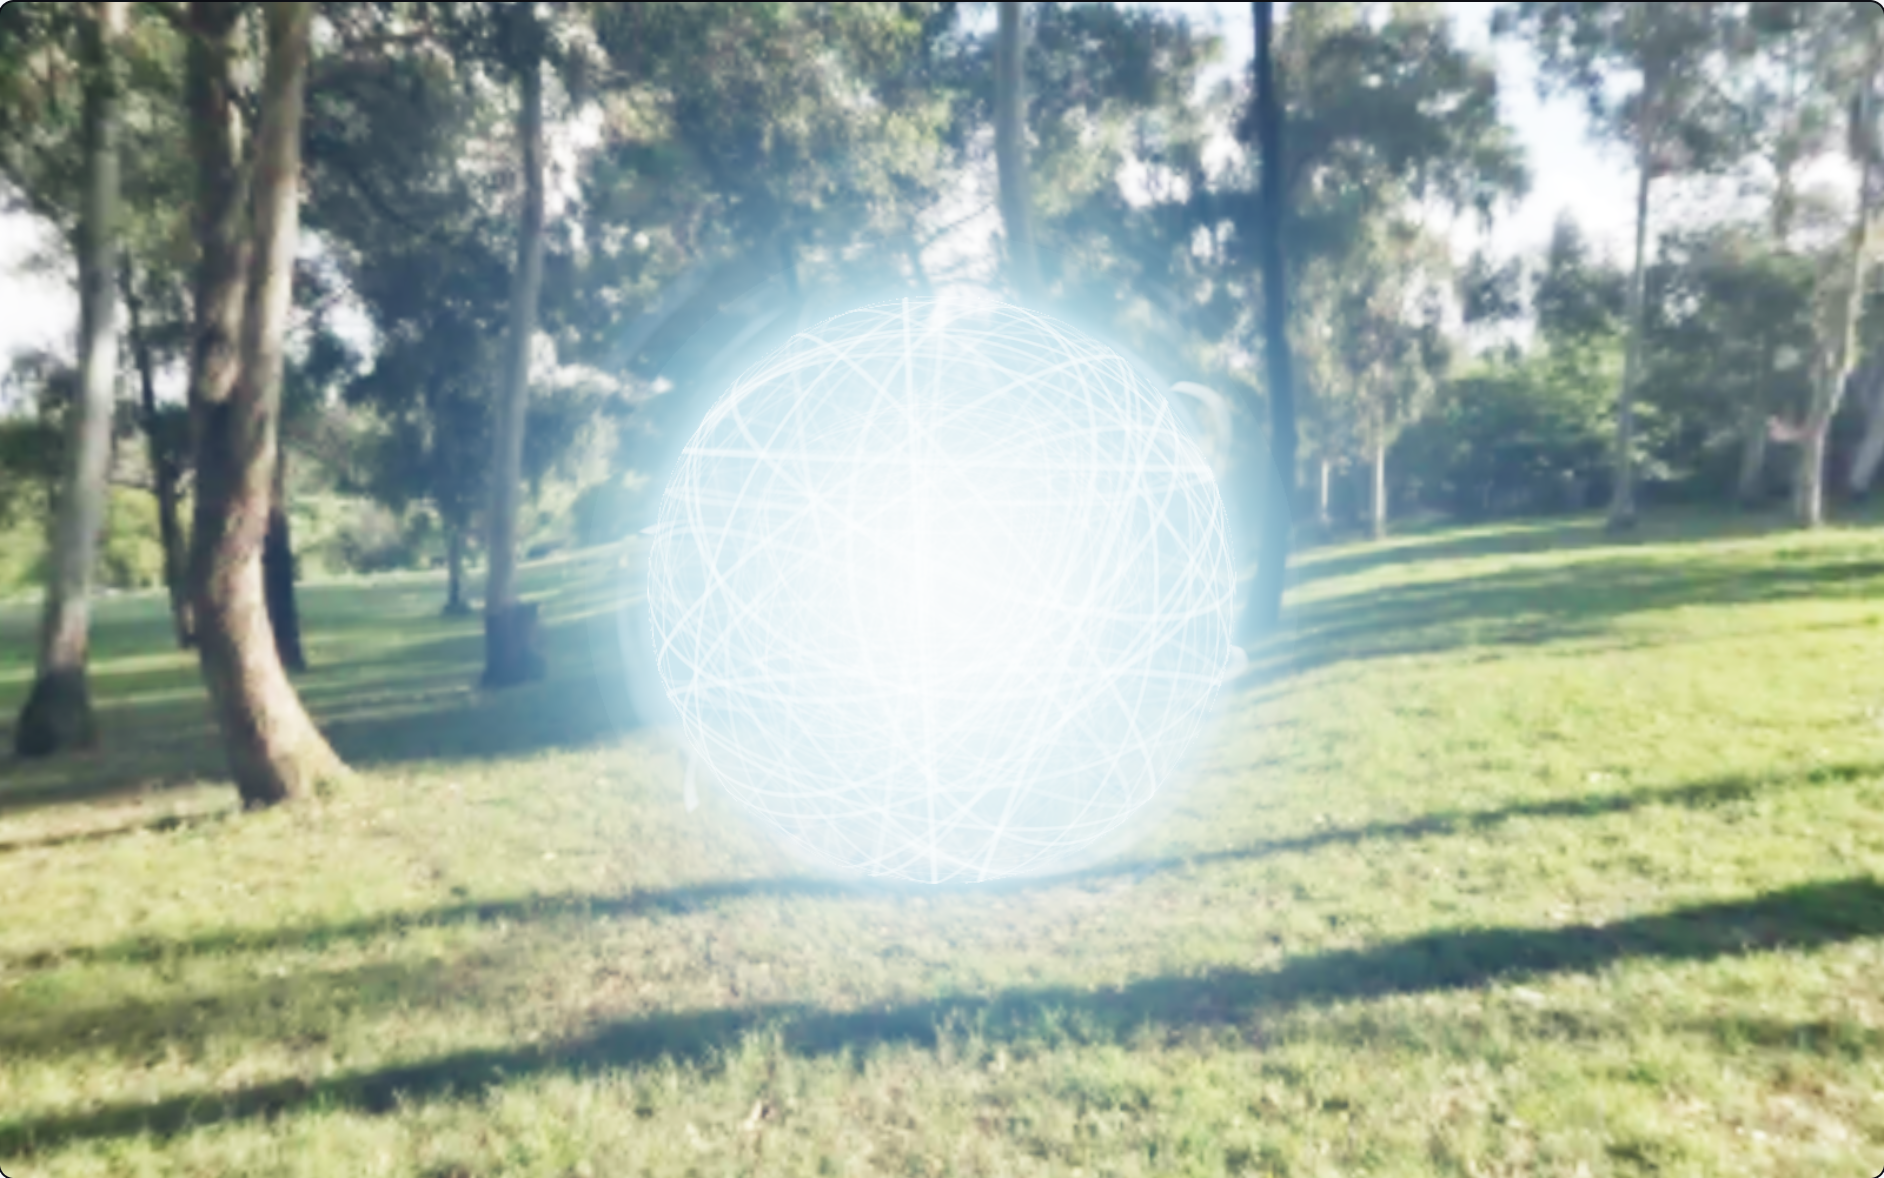
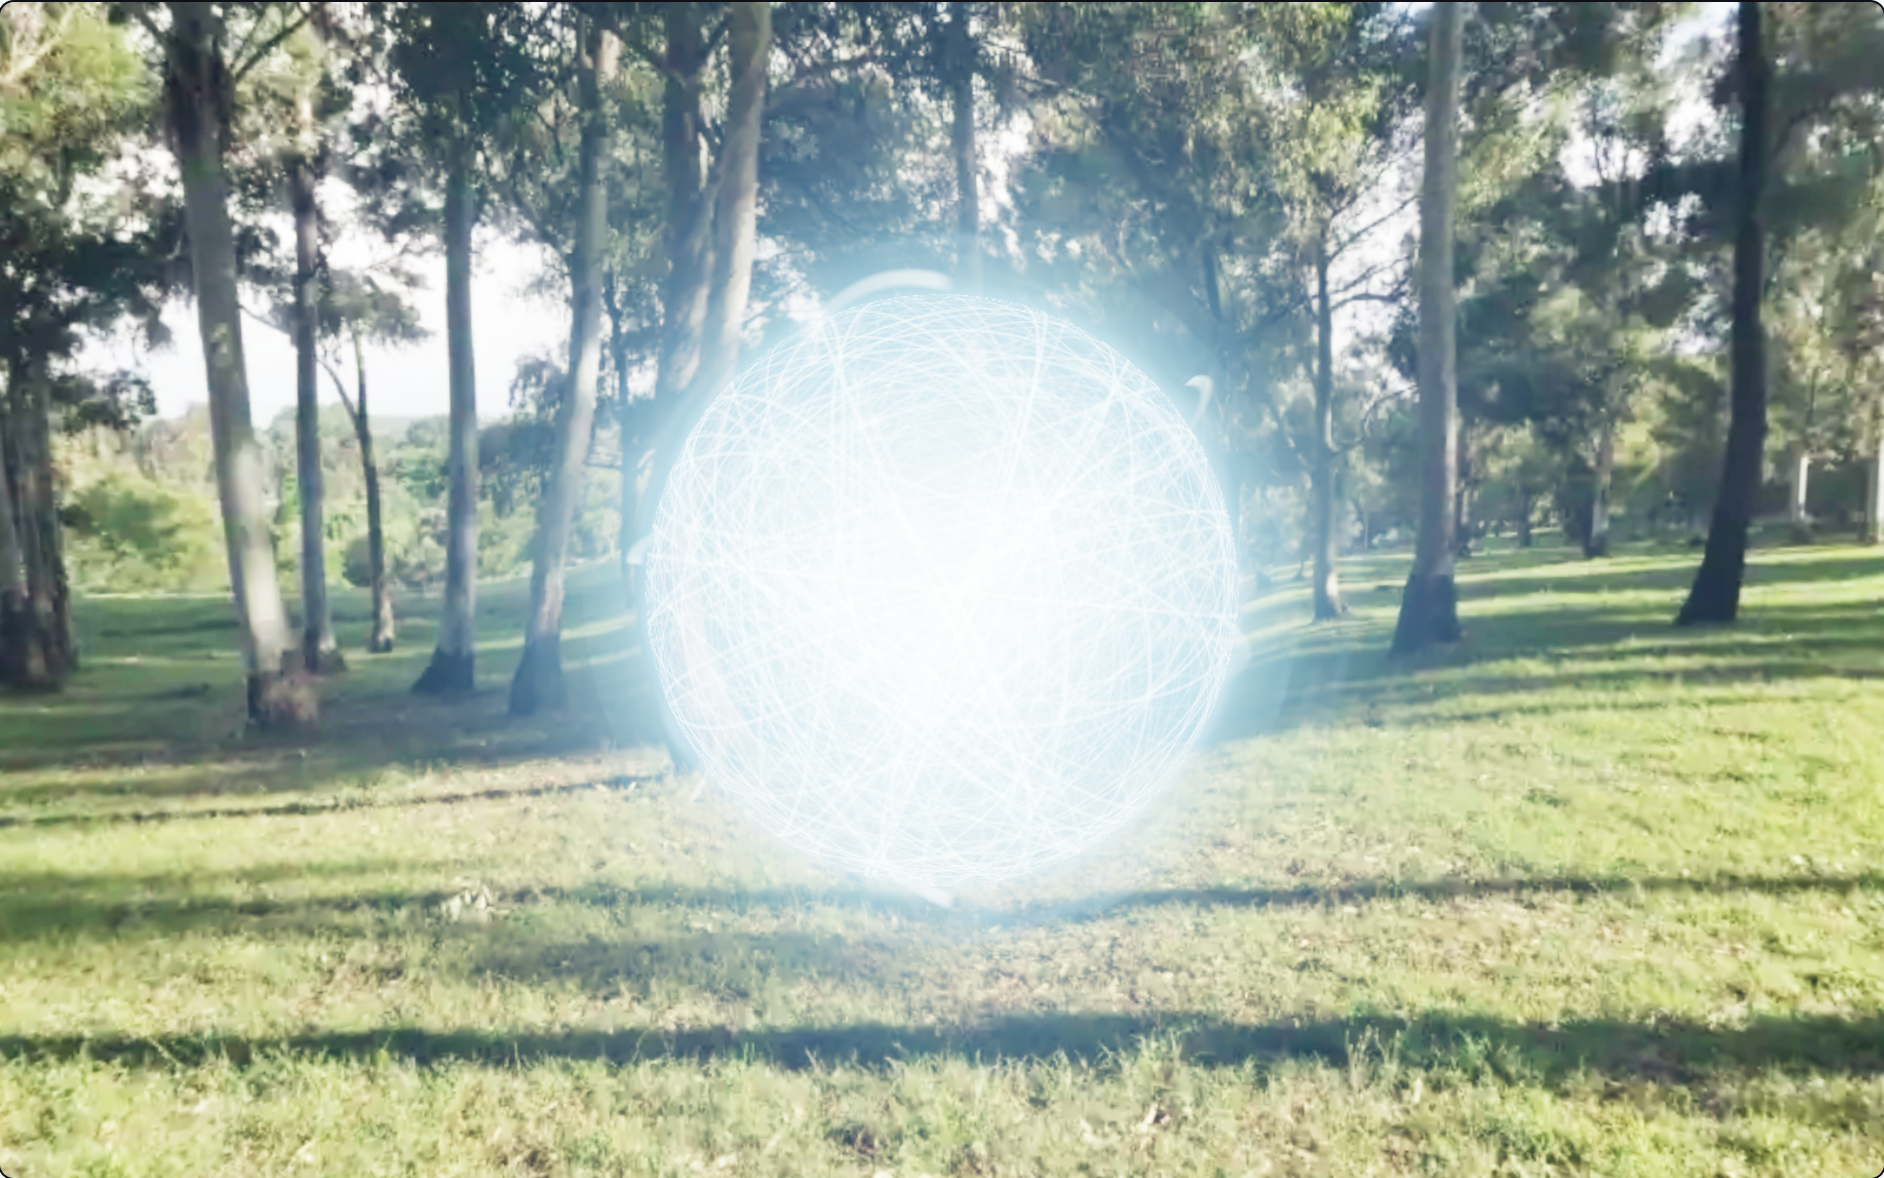
feat(lab): denser Rasengan cage, sharper background
144 circles in four groups on four shells, half the width, so the net
reads as dense as the film's. Background blur cut to a fraction of the
view that stays legible on retina.

diff --git a/components/lab/demos/rasengan.ts b/components/lab/demos/rasengan.ts
@@ -22,9 +22,9 @@ import type { Scene } from "./photo-scenes";
  * net that thickens toward the rim, around a core too bright to see into.
  * Each line is a circle on the sphere, the set of directions n with
  * dot(n, a) = h for some axis a and offset h: one dot product per line, no
- * noise, so every thread is clean. Seventy-two of them in three groups, each
+ * noise, so every thread is clean. A hundred and forty-four of them in four groups, each
  * group turning about its own axis at its own speed, one against the others,
- * so the net shears the way chakra spun several ways at once would. Three
+ * so the net shears the way chakra spun several ways at once would. Four
  * shells of it, front and back faces each, give the cage depth. Each thread
  * also breathes in brightness on its own clock, which is the flicker.
  *
@@ -37,7 +37,7 @@ import type { Scene } from "./photo-scenes";
 const RADIUS = 0.06;
 const FOV = 46;
 /** Background blur, as a fraction of the frame width. A fight scene stays legible. */
-const DOF_BLUR = 0.0035;
+const DOF_BLUR = 0.0015;
 /**
  * Places a ninja would fight in. Poly Haven HDRIs (CC0): a field under the
  * moon, a pine forest, a meadow at dusk, a rocky valley at dawn.
@@ -71,8 +71,8 @@ const ORBITS = [
   return { ...o, axis: o.axis.map((v) => v / n) };
 });
 
-/** Circles per group, and groups. 72 lines: what the film's net looks like. */
-const CIRCLES_PER_GROUP = 24;
+/** Circles per group, and groups. 144 lines: as dense as the film's net. */
+const CIRCLES_PER_GROUP = 36;
 
 /**
  * Three groups of circles on the sphere. Each group rides its own axis at its
@@ -84,6 +84,7 @@ const GROUPS = [
   { axis: [0.2, 1.0, 0.15], speed: 0.45 },
   { axis: [1.0, 0.25, -0.3], speed: -0.32 },
   { axis: [-0.4, 0.6, 1.0], speed: 0.6 },
+  { axis: [0.7, -0.5, 0.5], speed: -0.5 },
 ].map((g) => {
   const n = Math.hypot(...g.axis);
   return { ...g, axis: g.axis.map((v) => v / n) };
@@ -181,7 +182,7 @@ ${GROUPS.map((g, gi) => `  {
       let c = CIRCLES[i];
       let d = abs(dot(q, c.xyz) - c.w);
       let breathe = 0.55 + 0.45 * sin(spin * (1.1 + f32(i) * 0.09) + f32(i) * 1.7);
-      s += smoothstep(0.014, 0.003, d) * breathe;
+      s += smoothstep(0.009, 0.002, d) * breathe;
     }
   }`).join("\n")}
   return s;
@@ -198,14 +199,15 @@ fn shells(closest: vec3f, rd: vec3f, b: f32, r: f32) -> vec2f {
   var deep = 0.0;
 ${[
   { radius: 1.0, front: 1.0, back: 0.3, fade: 0.0 },
-  { radius: 0.74, front: 0.55, back: 0.18, fade: 0.1 },
-  { radius: 0.5, front: 0.35, back: 0.1, fade: 0.1 },
+  { radius: 0.85, front: 0.6, back: 0.2, fade: 0.1 },
+  { radius: 0.68, front: 0.45, back: 0.15, fade: 0.1 },
+  { radius: 0.5, front: 0.3, back: 0.1, fade: 0.1 },
 ].map((k, i) => `  if (b < ${k.radius.toFixed(2)}) {
     let h = sqrt(${k.radius.toFixed(2)} * ${k.radius.toFixed(2)} - b * b) * r;
     let edge = ${k.fade > 0 ? `smoothstep(${k.radius.toFixed(2)}, ${(k.radius - k.fade).toFixed(2)}, b)` : "1.0"};
     let t = (cage(normalize(closest - rd * h), p.spin) * ${k.front.toFixed(2)} + cage(normalize(closest + rd * h), p.spin) * ${k.back.toFixed(2)}) * edge;
     s += t;
-    deep += t * ${(i / 2).toFixed(2)};
+    deep += t * ${(i / 3).toFixed(2)};
   }`).join("\n")}
   return vec2f(s, deep);
 }
@@ -315,7 +317,7 @@ ${ORBITS.map((o) => `  arcs += orbit(rob, rd, vec3f(${o.axis.map((v) => v.toFixe
     color += body * inside * inside * 0.55 * glow;
 
     // Thread: whiter the deeper it is.
-    color += mix(CYAN, CORE, clamp(white * 0.8 + 0.35, 0.0, 1.0)) * s * 0.85 * glow;
+    color += mix(CYAN, CORE, clamp(white * 0.8 + 0.35, 0.0, 1.0)) * s * 0.95 * glow;
     // The film's rim: a soft band of saturated blue just inside the edge.
     color += CHAKRA * smoothstep(0.55, 0.98, b) * smoothstep(1.06, 0.98, b) * 0.35 * glow;
 

diff --git a/lib/lab.ts b/lib/lab.ts
@@ -38,8 +38,8 @@ export const labSketches: LabSketchMeta[] = [
     name: "Rasengan!",
     blurb: "Naruto's Rasengan: chakra spun several ways at once, held in a ball.",
     detail:
-      "Built from one frame: the Parent and Child Rasengan at the end of Boruto: Naruto the Movie, where the ball is wound with hundreds of thin, smooth, bright lines at every angle, crossing into a net that thickens toward the rim, around a core too bright to see into. Each line here is a circle on the sphere, the set of directions whose dot product with some axis equals some offset: one multiply per line, no noise anywhere, so every thread is clean. Seventy-two of them in three groups, each group turning about its own axis at its own speed, one against the others, so the net shears the way chakra spun several ways at once would. Three concentric shells of it, front and back faces each, give the cage depth, and by projection alone the lines crowd toward the rim as they do in the film. Each thread breathes in brightness on its own clock, which is the flicker. A few brighter arcs orbit outside the ball on tilted circles, dimmed where they pass behind it. The body is a soft luminous volume that thins out with radius rather than stopping, so the glow has no edge; the net does, because in the film it does. The world behind is bent, dimmed and tinted the way a bright translucent sphere would, and just outside the shell it shimmers and is dragged into a spiral while chakra peels off in soft tongues. Press and hold it and it charges: bigger, brighter, faster, up to 1.6 times, and it settles when you let go. The world behind it changes every twelve seconds, or when you click it: a field under the moon, a pine forest, a meadow at dusk, a rocky valley at dawn, the kind of places these fights happen in. The lens and bloom are the same as the water drop's.",
-    technique: "A cage of 72 circles on three shells, orbiting arcs, HDR bloom",
+      "Built from one frame: the Parent and Child Rasengan at the end of Boruto: Naruto the Movie, where the ball is wound with hundreds of thin, smooth, bright lines at every angle, crossing into a net that thickens toward the rim, around a core too bright to see into. Each line here is a circle on the sphere, the set of directions whose dot product with some axis equals some offset: one multiply per line, no noise anywhere, so every thread is clean. A hundred and forty-four of them in four groups, each group turning about its own axis at its own speed, one against the others, so the net shears the way chakra spun several ways at once would. Four concentric shells of it, front and back faces each, give the cage depth, and by projection alone the lines crowd toward the rim as they do in the film. Each thread breathes in brightness on its own clock, which is the flicker. A few brighter arcs orbit outside the ball on tilted circles, dimmed where they pass behind it. The body is a soft luminous volume that thins out with radius rather than stopping, so the glow has no edge; the net does, because in the film it does. The world behind is bent, dimmed and tinted the way a bright translucent sphere would, and just outside the shell it shimmers and is dragged into a spiral while chakra peels off in soft tongues. Press and hold it and it charges: bigger, brighter, faster, up to 1.6 times, and it settles when you let go. The world behind it changes every twelve seconds, or when you click it: a field under the moon, a pine forest, a meadow at dusk, a rocky valley at dawn, the kind of places these fights happen in. The lens and bloom are the same as the water drop's.",
+    technique: "A cage of 144 circles on four shells, orbiting arcs, HDR bloom",
     dark: true,
   },
   {
